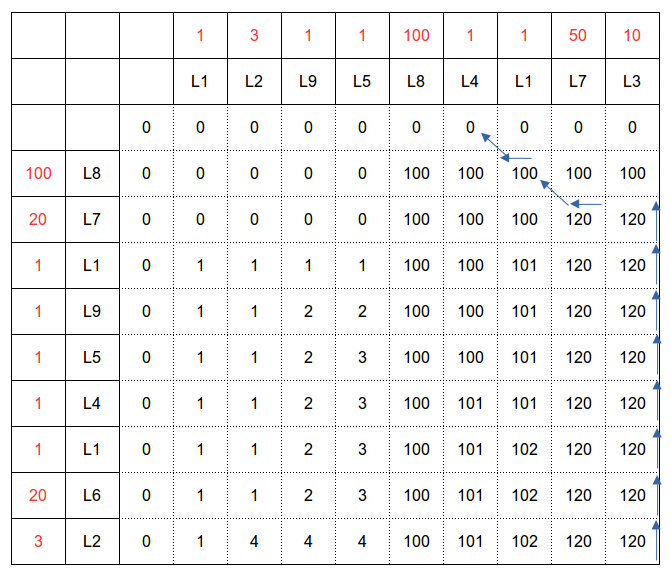
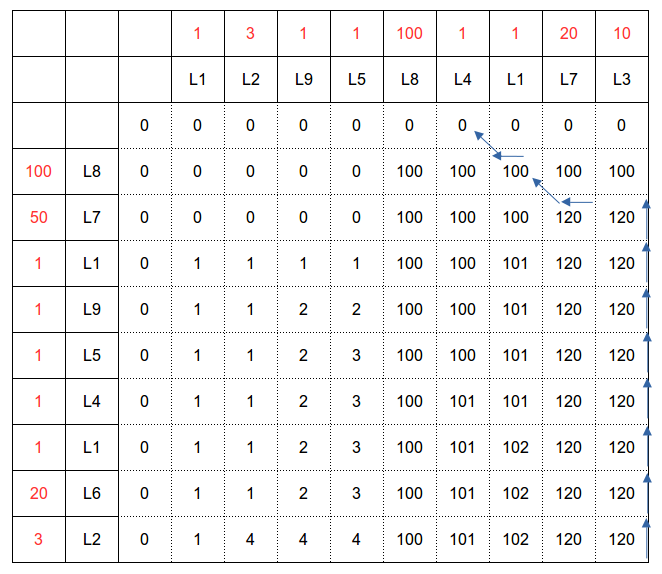
Handling same objects with different weight

diff --git a/src/test/java/com/sdc/bcs/BestCommonSubsequenceCalculatorLinkTest.java b/src/test/java/com/sdc/bcs/BestCommonSubsequenceCalculatorLinkTest.java
@@ -46,14 +46,14 @@ public class BestCommonSubsequenceCalculatorLinkTest {
                 , new Link(8, 80, 100)
                 , new Link(4, 40, 1)
                 , new Link(1, 10, 1)
-                , new Link(7, 70, 50)
+                , new Link(7, 70, 20)
                 , new Link(3, 30, 10)
         };
         
         BestCommonSubsequenceCalculator<Link> calculator =
                 new BestCommonSubsequenceCalculator<>();
         
-        double expectedBestWeight = 150.;
+        double expectedBestWeight = 120.;
         
         assertThat(calculator.getBestWeight(s1, s2), is(equalTo(expectedBestWeight)));
         

diff --git a/src/main/java/com/sdc/bcs/BestCommonSubsequenceCalculator.java b/src/main/java/com/sdc/bcs/BestCommonSubsequenceCalculator.java
@@ -45,7 +45,7 @@ public class BestCommonSubsequenceCalculator<T extends WithKey & Weightable> {
                 else {
 
                     if (s1[i-1].hasSameKey(s2[j-1]))
-                        wm[i][j] = wm[i - 1][j - 1] + s1[i-1].getWeigth();
+                        wm[i][j] = wm[i - 1][j - 1] + Math.min(s1[i-1].getWeigth(), s2[j-1].getWeigth());
                     else
                         wm[i][j] = wm[i - 1][j] >= wm[i][j - 1] 
                         ?  wm[i - 1][j] : wm[i][j - 1];
